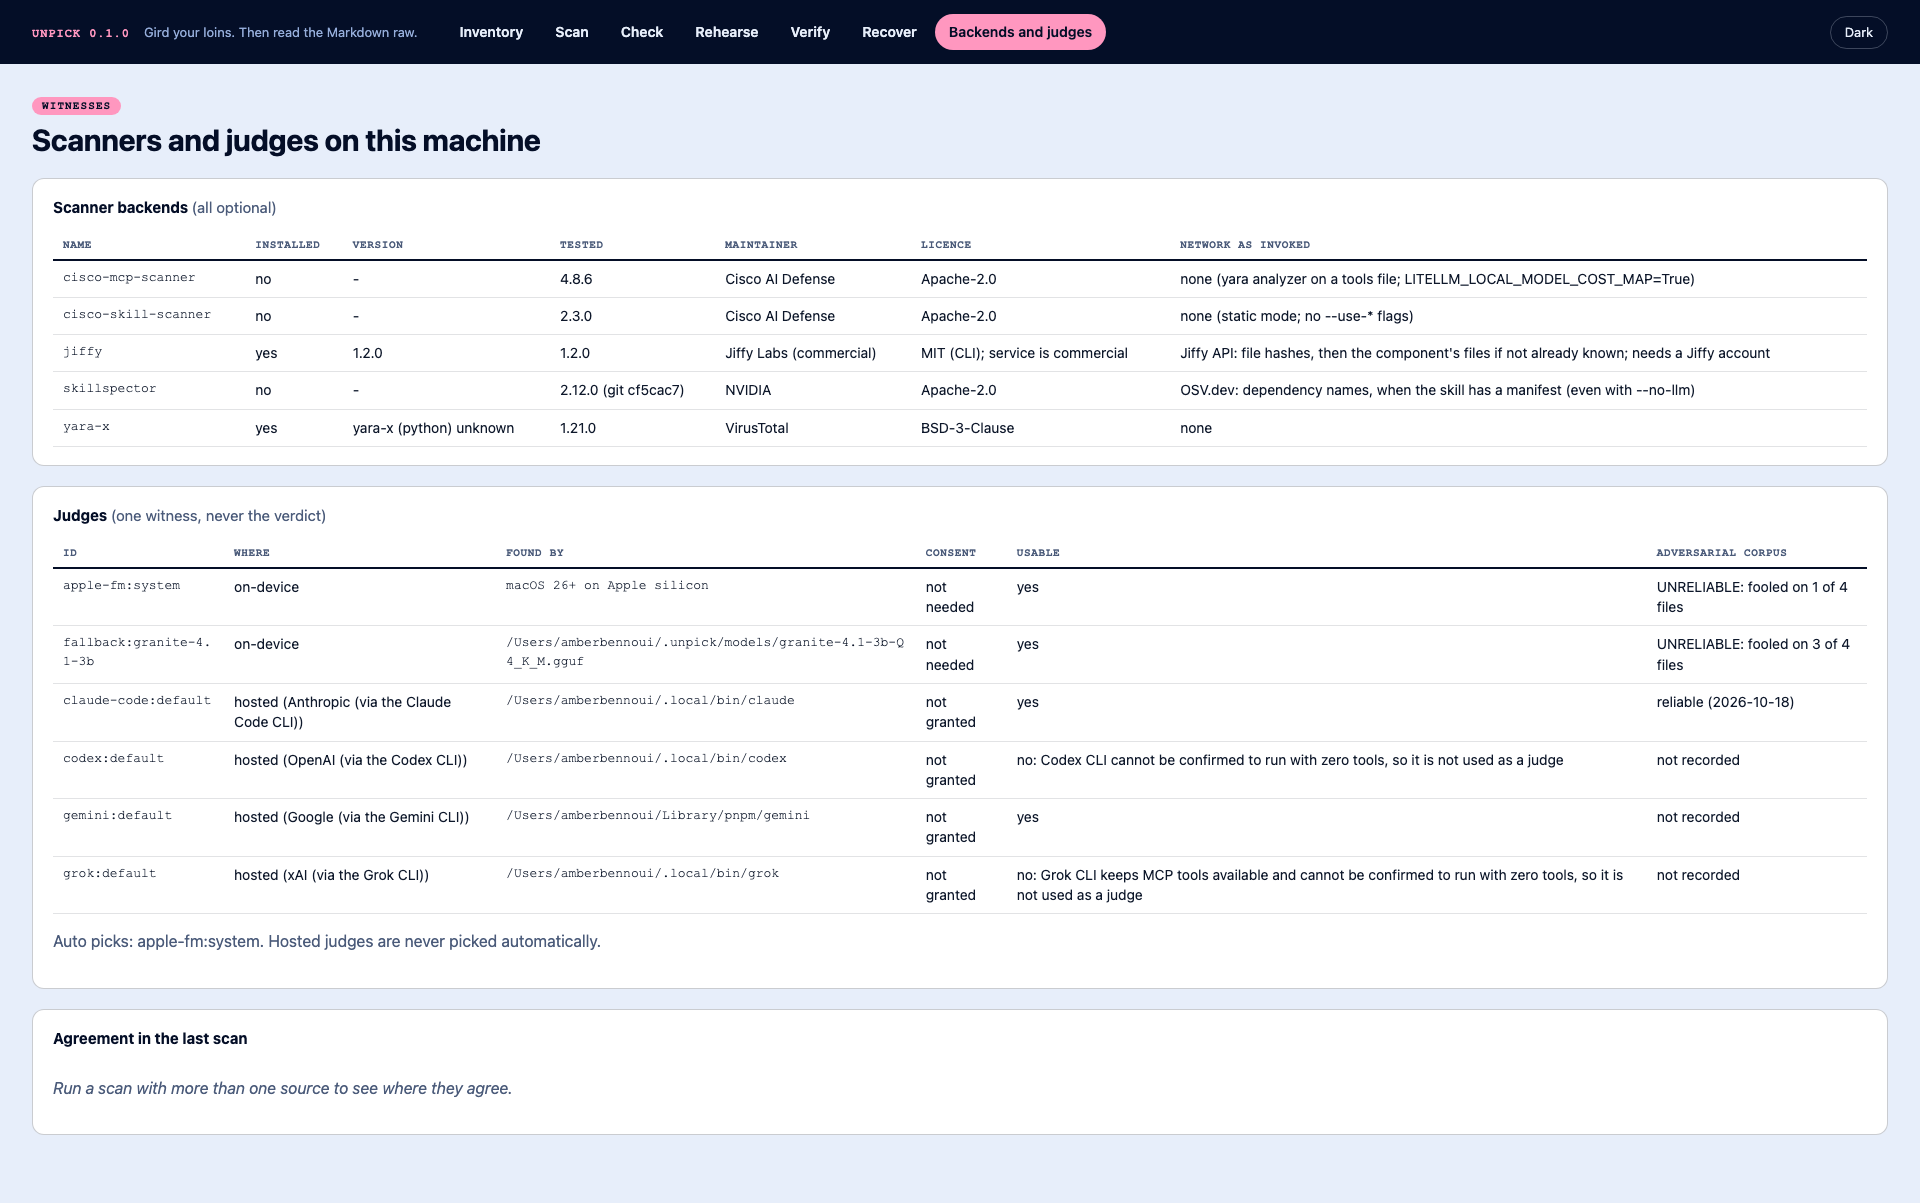
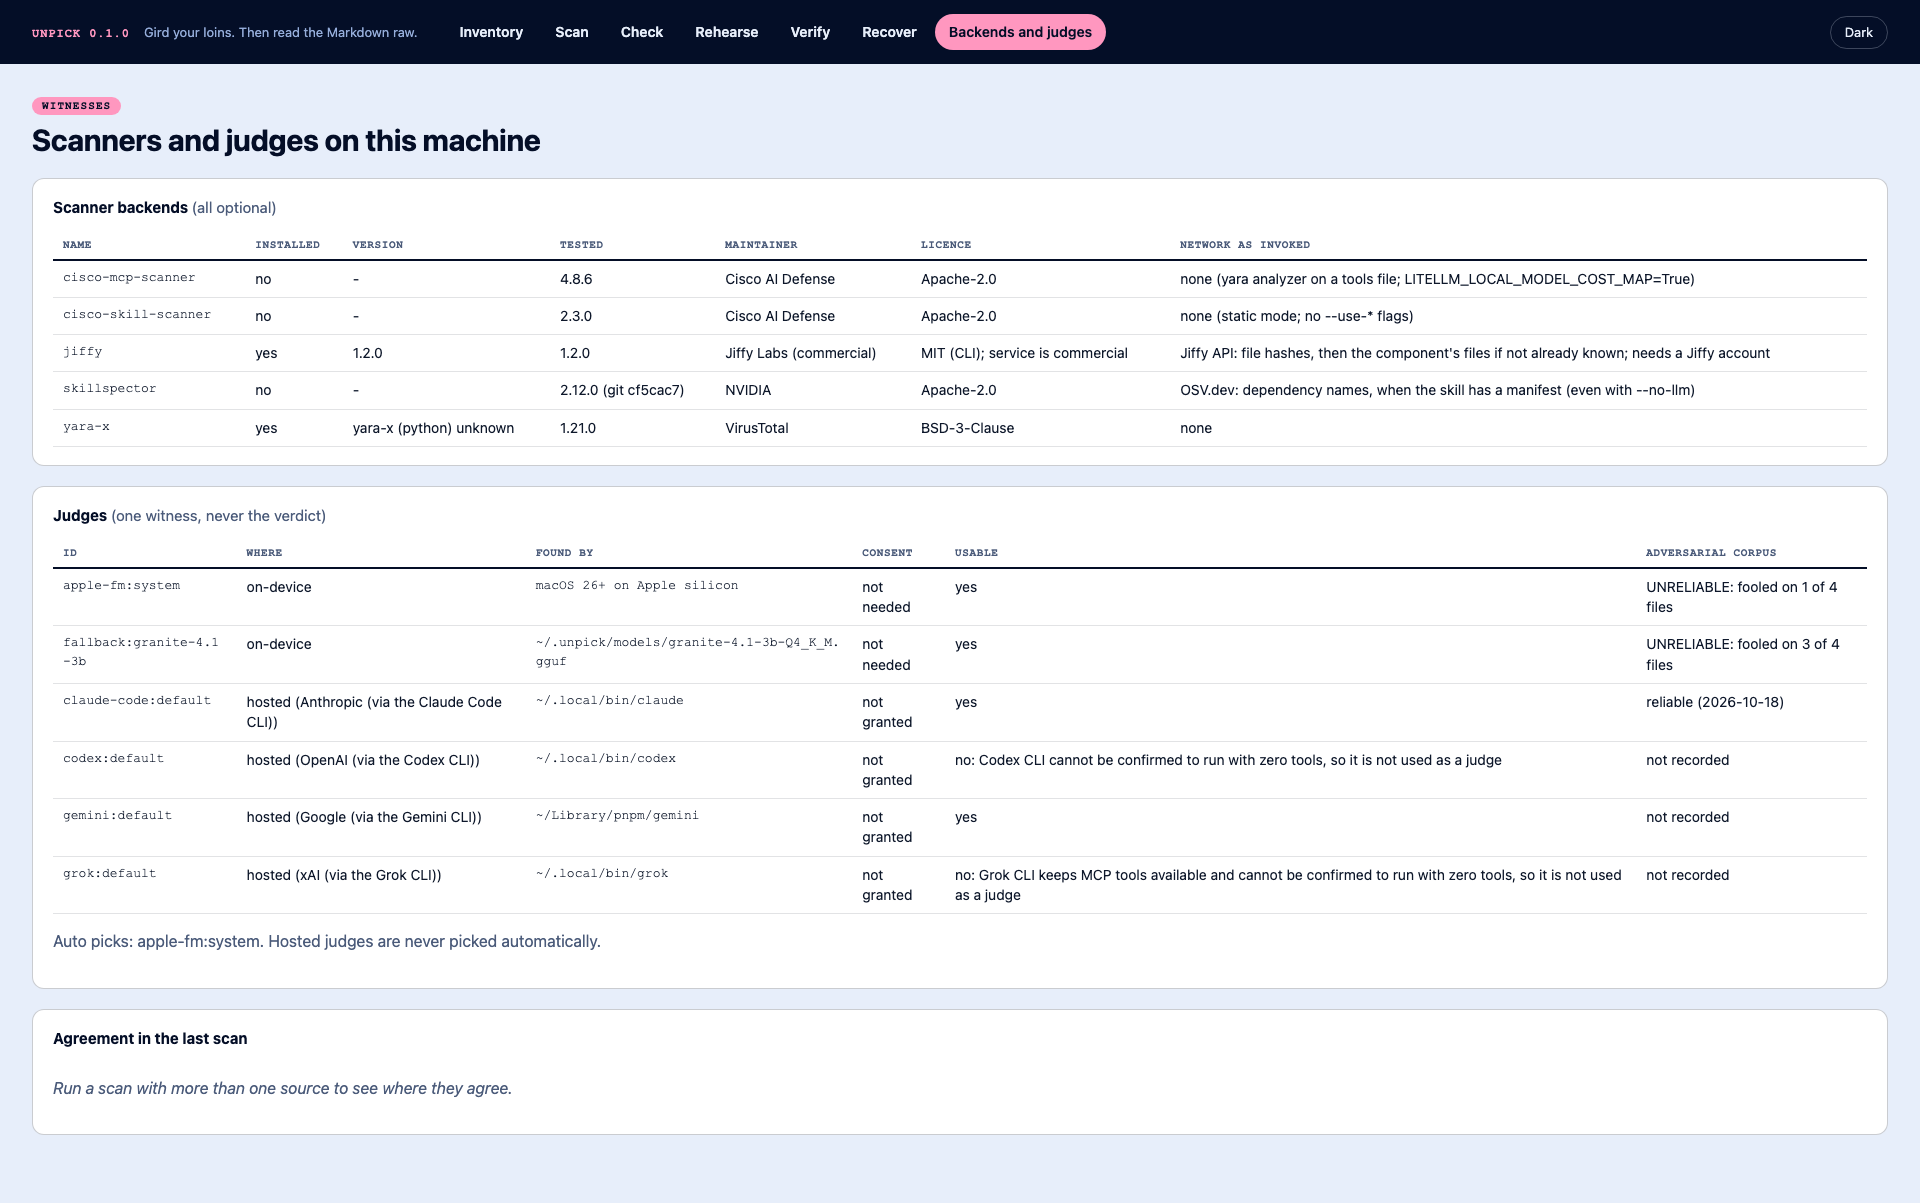
feat(phase-5): unpick report, and handout commands tested on every OS
report --html writes one self-contained document: scan, judge opinions,
rehearse timeline, decisions and inventory. The six handout commands run in
CI on Ubuntu, macOS and Windows (PowerShell 5.1 and 7) and must find each
planted problem in demo sample A. Judge paths now show ~ for the home folder.

diff --git a/unpick/report.py b/unpick/report.py
@@ -36,7 +36,7 @@ def _sev(s: str) -> str:
     return f"<span class=\"sev sev-{_e(s)}\">{_e(s.upper())}</span>"
 
 
-def scan_html(d: dict) -> str:
+def _scan_section(d: dict) -> str:
     runs = "".join(
         f"<li><b>{_e(r.get('source'))}</b> {_e(r.get('version') or '')} &middot; "
         f"{'hosted' if r.get('on_device') is False else 'local'} &middot; {_e(r.get('status'))}"
@@ -57,24 +57,71 @@ def scan_html(d: dict) -> str:
         )
     s = d.get("summary", {})
     agreement = "".join(f"<tr><td>{_e(k)}</td><td>{_e(v)}</td></tr>" for k, v in (s.get("agreement") or {}).items())
-    body = (
+    skipped = "".join(f"<li>{_e(x['path'])}: {_e(x['reason'])}</li>" for x in d.get("skipped", []))
+    return (
         f"<section><h2>Scan of {_e(d.get('target'))}</h2><p>{s.get('open', 0)} open, {s.get('accepted', 0)} accepted, "
         f"{len(d.get('files', []))} files read.</p><ul>{runs or '<li>built-in checks only</li>'}</ul>"
         + (f"<table><tr><th>sources</th><th>agreement</th></tr>{agreement}</table>" if agreement else "")
+        + (f"<p>Not read:</p><ul>{skipped}</ul>" if skipped else "")
         + "</section><section><h2>Findings</h2>" + ("".join(rows) or "<p>No findings.</p>") + "</section>"
     )
-    return _page("Scan report", body)
 
 
-def inventory_html(items: list[dict]) -> str:
+def judge_section(d: dict) -> str:
+    """What each judge said, shown apart from the findings: a witness, not the verdict."""
+    seen: dict[str, str] = {}
+    for f in d.get("findings", []) + d.get("accepted", []):
+        if f["source"].startswith("judge:") and f.get("extra", {}).get("judge_explanation"):
+            seen.setdefault(f["source"], f["extra"]["judge_explanation"])
+    if not seen:
+        return ""
+    items = "".join(f"<li><b>{_e(src)}</b>: {_e(text)}</li>" for src, text in seen.items())
+    return f"<section><h2>Judge opinions (one witness each, never the verdict)</h2><ul>{items}</ul></section>"
+
+
+def rehearse_section(r: dict | None) -> str:
+    if not r:
+        return ""
+    events = "".join(f"<tr><td>{_e((e.get('ts') or '')[11:19])}</td><td>{_e(e.get('tool'))}</td>"
+                     f"<td class=\"mono\">{_e(str(e.get('input'))[:200])}</td></tr>" for e in r.get("events", []))
+    evidence = "".join(f"<li><b>{_e(i['rule'])}</b> {_e(i['detail'])}</li>" for i in r.get("evidence", []))
+    return (f"<section><h2>First run in a box</h2><p><b>{_e(r.get('verdict'))}</b></p><p class=\"muted\">{_e(r.get('scope'))}</p>"
+            f"<ul>{evidence}</ul><table><tr><th>time</th><th>tool</th><th>input</th></tr>{events}</table></section>")
+
+
+def decisions_section(decided: list[dict]) -> str:
+    if not decided:
+        return ""
+    rows = "".join(f"<tr><td>{_e(x['decision'])}</td><td>{_e(x['rule_id'])}</td><td>{_e(x.get('path'))}:{_e(x.get('line'))}</td>"
+                   f"<td>{_e(x.get('note'))}</td></tr>" for x in decided)
+    return (f"<section><h2>Decisions on record</h2><table><tr><th>decision</th><th>rule</th><th>where</th><th>note</th></tr>"
+            f"{rows}</table></section>")
+
+
+def inventory_section(items: list[dict]) -> str:
     rows = "".join(
         f"<tr><td>{_e(c['kind'])}</td><td>{_e(c['host'])}</td><td>{_e(c['scope'])}</td><td>{_e(c['name'])}</td>"
         f"<td class=\"mono\">{_e(c['display_path'])}</td><td class=\"mono\">{_e(c['sha256'][:12])}</td>"
         f"<td>{_e(c['modified'][:10])}</td></tr>" for c in items
     )
-    body = (f"<section><h2>{len(items)} AI components</h2><table><tr><th>kind</th><th>host</th><th>scope</th>"
+    return (f"<section><h2>{len(items)} AI components</h2><table><tr><th>kind</th><th>host</th><th>scope</th>"
             f"<th>name</th><th>path</th><th>sha256</th><th>modified</th></tr>{rows}</table></section>")
-    return _page("Inventory", body)
+
+
+def scan_html(d: dict) -> str:
+    return _page("Scan report", _scan_section(d) + judge_section(d))
+
+
+def inventory_html(items: list[dict]) -> str:
+    return _page("Inventory", inventory_section(items))
+
+
+def full_html(scan: dict, inventory: list[dict] | None = None, rehearse: dict | None = None,
+              decided: list[dict] | None = None) -> str:
+    """`unpick report --html`: everything in one document."""
+    body = (_scan_section(scan) + judge_section(scan) + rehearse_section(rehearse)
+            + decisions_section(decided or []) + (inventory_section(inventory) if inventory else ""))
+    return _page("unpick report", body)
 
 
 def write(path: Path, doc: str) -> Path:

diff --git a/unpick/cli.py b/unpick/cli.py
@@ -488,6 +488,23 @@ def cmd_recover(args) -> int:
     return 0
 
 
+def cmd_report(args) -> int:
+    from unpick import decisions, inventory, judges, report, scan
+
+    judge = judges.default_judge() if args.judge == "auto" else args.judge
+    res = scan.scan(Path(args.path), backends=_backend_list(args.backends), judge=judge, boxed=args.boxed)
+    d = res.to_dict()
+    inv = inventory.discover(project=Path(args.project)) if args.inventory else None
+    reh = json.loads(Path(args.rehearse_json).read_text(encoding="utf-8")) if args.rehearse_json else None
+    decided = [x for p in (decisions.project_file(), decisions.user_file()) if p.is_file()
+               for x in json.loads(p.read_text(encoding="utf-8")).get("decisions", [])]
+    doc = report.full_html(d, inv, reh, decided)
+    report.write(Path(args.html), doc)
+    _out(args, {"html": args.html, "open": d["summary"]["open"], "accepted": d["summary"]["accepted"]},
+         lambda x: console.print(f"wrote {esc(x['html'])}: {x['open']} open, {x['accepted']} accepted"))
+    return 0
+
+
 def cmd_ui(args) -> int:
     try:
         from unpick.ui.server import serve
@@ -619,6 +636,17 @@ def build_parser() -> argparse.ArgumentParser:
     s.add_argument("--yes", action="store_true", help="actually contain (move the component, edit configs with backups)")
     s.add_argument("--project", default=".")
     s.set_defaults(fn=cmd_recover)
+
+    s = sub.add_parser("report", parents=[common], help="one self-contained HTML report: scan, judges, rehearse, decisions, inventory")
+    s.add_argument("path")
+    s.add_argument("--html", required=True, help="output file")
+    s.add_argument("--inventory", action="store_true", help="include the machine's inventory")
+    s.add_argument("--rehearse-json", help="include a saved `unpick rehearse --json` result")
+    s.add_argument("--backends")
+    s.add_argument("--judge")
+    s.add_argument("--boxed", action="store_true")
+    s.add_argument("--project", default=".")
+    s.set_defaults(fn=cmd_report)
 
     s = sub.add_parser("ui", parents=[common], help="open the local web UI (127.0.0.1 only)")
     s.add_argument("--project", default=".")

diff --git a/tests/test_ui_server.py b/tests/test_ui_server.py
@@ -73,3 +73,19 @@ def test_export_html_escapes_untrusted_content(tmp_path):
                        "context": [{"line": 1, "text": "<b>"}], "agreed_by": []}], "accepted": []}
     out = report.scan_html(d)
     assert "<script>x" not in out and "<img src=x" not in out and "&lt;img" in out
+
+
+def test_full_report_is_self_contained(kit, tmp_path, monkeypatch):
+    import json
+
+    from unpick.cli import main
+    monkeypatch.chdir(kit)
+    reh = tmp_path / "r.json"
+    reh.write_text(json.dumps({"verdict": "made the agent start programs", "scope": "Evidence, not proof.",
+                               "events": [{"ts": "2026-10-18T01:11:00", "tool": "run_shell", "input": {"command": "<b>x</b>"}}],
+                               "evidence": [{"rule": "RT-REHEARSE-SPAWN", "detail": "started bash"}]}))
+    out = tmp_path / "report.html"
+    assert main(["report", "sample-a", "--html", str(out), "--rehearse-json", str(reh), "--json"]) == 0
+    html = out.read_text()
+    assert "First run in a box" in html and "RT-PREREQ" in html and "&lt;b&gt;x" in html
+    assert "<script" not in html and "http://" not in html.split("</style>")[1].replace("https://", "")

diff --git a/unpick/judges/__init__.py b/unpick/judges/__init__.py
@@ -23,6 +23,7 @@ import json
 import pkgutil
 import secrets
 from dataclasses import dataclass, field
+from pathlib import Path
 
 from unpick.finding import Finding, with_context
 from unpick.resources import data_dir, load_json, schemas_dir
@@ -71,6 +72,8 @@ def detect_all() -> list[dict]:
             row.setdefault("provider", getattr(mod, "PROVIDER", None))
             row["consent"] = "not needed" if mod.KIND == "on-device" else consent.status(row["provider"])
             row["adversarial"] = _reliability().get(row["id"])
+            if isinstance(row.get("found_by"), str):  # show ~ instead of the home folder (screenshots, exports)
+                row["found_by"] = row["found_by"].replace(str(Path.home()), "~")
             rows.append(row)
     return rows
 
